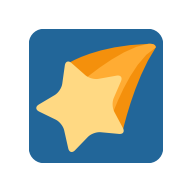
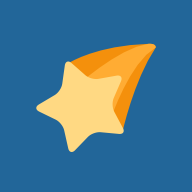
feat: better manifest (and fix `theme-color`) (#48)
* Add `start_url`

* Add `minimal-ui` and more icon sizes

* Update Android icons

* Set iOS status-bar color based on `theme-color`

* Prettier XML for the favicon

* No need to specify the size

* Update Gemfile.lock

* Teach bundler to download in the local directory

* Update gems

* Fix Jekyll build

* Unset BUNDLE_PATH

* `strict_front_matter` is already set

* Update README

* Set `BUNDLE_PATH` as an env variable in dev shell

* Unset BUNDLE_PATH and clean

diff --git a/_includes/header.html b/_includes/header.html
@@ -28,7 +28,8 @@ The source code is also available here:
         <label for="nav-trigger">
           <span class="menu-icon">
             <svg viewBox="0 0 18 15" width="18px" height="15px">
-              <path d="M18,1.484c0,0.82-0.665,1.484-1.484,1.484H1.484C0.665,2.969,0,2.304,0,1.484l0,0C0,0.665,0.665,0,1.484,0 h15.032C17.335,0,18,0.665,18,1.484L18,1.484z M18,7.516C18,8.335,17.335,9,16.516,9H1.484C0.665,9,0,8.335,0,7.516l0,0 c0-0.82,0.665-1.484,1.484-1.484h15.032C17.335,6.031,18,6.696,18,7.516L18,7.516z M18,13.516C18,14.335,17.335,15,16.516,15H1.484 C0.665,15,0,14.335,0,13.516l0,0c0-0.82,0.665-1.483,1.484-1.483h15.032C17.335,12.031,18,12.695,18,13.516L18,13.516z"/>
+              <path
+                d="M18,1.484c0,0.82-0.665,1.484-1.484,1.484H1.484C0.665,2.969,0,2.304,0,1.484l0,0C0,0.665,0.665,0,1.484,0 h15.032C17.335,0,18,0.665,18,1.484L18,1.484z M18,7.516C18,8.335,17.335,9,16.516,9H1.484C0.665,9,0,8.335,0,7.516l0,0 c0-0.82,0.665-1.484,1.484-1.484h15.032C17.335,6.031,18,6.696,18,7.516L18,7.516z M18,13.516C18,14.335,17.335,15,16.516,15H1.484 C0.665,15,0,14.335,0,13.516l0,0c0-0.82,0.665-1.483,1.484-1.483h15.032C17.335,12.031,18,12.695,18,13.516L18,13.516z" />
             </svg>
           </span>
         </label>
@@ -47,9 +48,7 @@ The source code is also available here:
       {%- endif -%}
 
       <button type="button" class="theme-mode-button" onclick="setSkin()">
-        <svg class="svg-icon" id="skin-icon"
-          role="img"
-          focusable="false">
+        <svg class="svg-icon" id="skin-icon" role="img" focusable="false">
           <use id="use-skin-icon" xlink:href="{{ '/assets/skin-icons.svg#sun' | relative_url }}"></use>
         </svg>
         <span class="visually-hidden">Toggle dark mode</span>
@@ -162,6 +161,7 @@ The source code is also available here:
 
     setIcon(targetSkin);
     applySkin(targetSkin);
+    setBrowserThemeColor();
   }
 
   function setIcon(targetSkin) {
@@ -199,6 +199,7 @@ The source code is also available here:
     if (savedSkin !== null) {
       setSkin(savedSkin); // Also takes care of the icon.
     } else {
+      setBrowserThemeColor();
       setIcon(Skins.Default);
     }
   }
@@ -207,6 +208,7 @@ The source code is also available here:
     if (localStorage.getItem(SKIN_NAME_KEY) === null) {
       setIcon(Skins.Default);
     }
+    setBrowserThemeColor();
   });
 
   // Listen for local storage changes on our theme key. This lets
@@ -214,11 +216,10 @@ The source code is also available here:
   // and update itself accordingly.
   // https://brandur.org/fragments/dark-mode-notes
   window.addEventListener("storage", (e) => {
-      if (e.key == SKIN_NAME_KEY) {
-        loadSkin()
-      }
+    if (e.key == SKIN_NAME_KEY) {
+      loadSkin()
+    }
   })
 
   loadSkin();
 </script>
-

diff --git a/_includes/custom-head.html b/_includes/custom-head.html
@@ -1,8 +1,27 @@
 <link rel="icon" type="image/svg+xml" href="/assets/images/favicon.svg">
 <link rel="icon" type="image/png" href="/assets/images/favicon-48x48.png" sizes="48x48" />
 <link rel="shortcut icon" href="/assets/images/favicon.ico" />
-<link rel="apple-touch-icon" sizes="180x180" href="/assets/images/apple-touch-icon.png" />
+<link rel="apple-touch-icon" href="/assets/images/apple-touch-icon.png" />
 <meta name="apple-mobile-web-app-title" content="{{ site.short_title | default: site.title }}" />
+
+<meta name="theme-color" content="">
+
+<script>
+    const themeColor = document.querySelector('meta[name="theme-color"]');
+    function setBrowserThemeColor() {
+        let color = getComputedStyle(document.documentElement)
+            .getPropertyValue('--minima-background-color')
+        themeColor.setAttribute("content", color);
+    }
+    setBrowserThemeColor()
+</script>
+
+<meta name="apple-mobile-web-app-capable" content="yes">
+<meta name="apple-mobile-web-app-status-bar-style" content="default">
+
+<meta name="mobile-web-app-capable" content="yes">
+<meta name="format-detection" content="telephone=no">
+
 <link rel="manifest" href="/assets/site.webmanifest" />
 
 {%- if site.author and site.author.pgp_pk_url %}

diff --git a/README.md b/README.md
@@ -9,8 +9,10 @@ Install [Nix](https://nixos.org) and enable
 
 ## Develop
 
-- Running `nix develop` will prepare and enter an environment with everything
-  you need.
+- Running `nix develop` (or entering the directory if you have `direnv`
+  configured) will prepare and enter an environment with everything you need.
+- Running `bundler update` will update your Gems. `bundler` is configured to use
+  the directory `vendor`, so that it try installing it under `nix` store.
 - `nix run '.#lock'` generates `gemset.nix` from `Gemfile.lock`.
 - `nix flake check` tests the build and runs linters.
 
